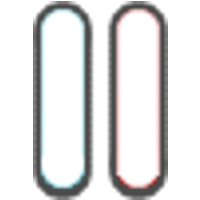
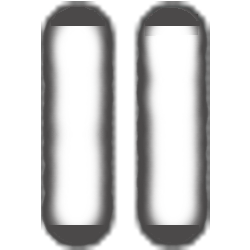
oxygen added

Changed region(s): [[0.15, 0.0, 0.45, 0.96], [0.54, 0.0, 0.84, 0.96]]

diff --git a/interface.py b/interface.py
@@ -6,17 +6,18 @@ class LifeBar(pygame.sprite.Sprite):
     def __init__(self):
         super().__init__()
         self.image = LIFEBAR_img
-        self.rect = self.image.get_rect().move(50, HEIGHT - 250)
+        self.rect = self.image.get_rect().move(50, HEIGHT - 300)
         self.oxygen_lvl = 100
         self.oxygen_event = pygame.USEREVENT + 1
         pygame.time.set_timer(self.oxygen_event, SECOND)
         self.health_lvl = 100
 
-    # def draw_lvl(self):
-    #     ox_lvl_img = pygame.Surface((50, 200))
-    #     pygame.draw.rect(ox_lvl_img, 'blue',
-    #                      (0, 200 - self.oxygen_lvl * 2, 50, self.oxygen_lvl * 2))
-    #     ox_lvl = pygame.sprite.Sprite()
-    #     ox_lvl.image = ox_lvl_img
-    #     ox_lvl.rect = ox_lvl_img.get_rect()
-    #     return ox_lvl
+    def draw_lvl(self):
+        ox_lvl_img = pygame.Surface((60, 200))
+        ox_lvl_img.fill((30, 30, 60))
+        pygame.draw.rect(ox_lvl_img, (0, 150, 255),
+                         (0, 200 - self.oxygen_lvl * 2, 60, self.oxygen_lvl * 2))
+        ox_lvl = pygame.sprite.Sprite()
+        ox_lvl.image = ox_lvl_img
+        ox_lvl.rect = ox_lvl_img.get_rect().move(100, HEIGHT - 275)
+        return ox_lvl

diff --git a/gameplay.py b/gameplay.py
@@ -115,8 +115,7 @@ def draw_screen(screen, player, map, camera, lifebar):
     camera.track(player)
     for obj in screen_group:
         camera.update(obj)
-    # oxygen = lifebar.draw_lvl()
-    # screen_group.add(oxygen)
+    screen_group.add(lifebar.draw_lvl())
     screen_group.add(lifebar)
     screen_group.draw(screen)
     return barrier, screen_group
